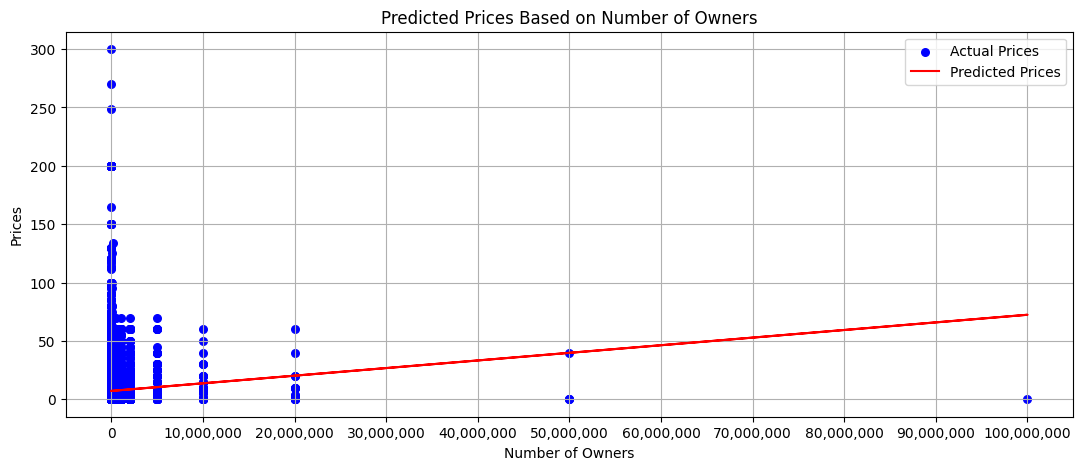
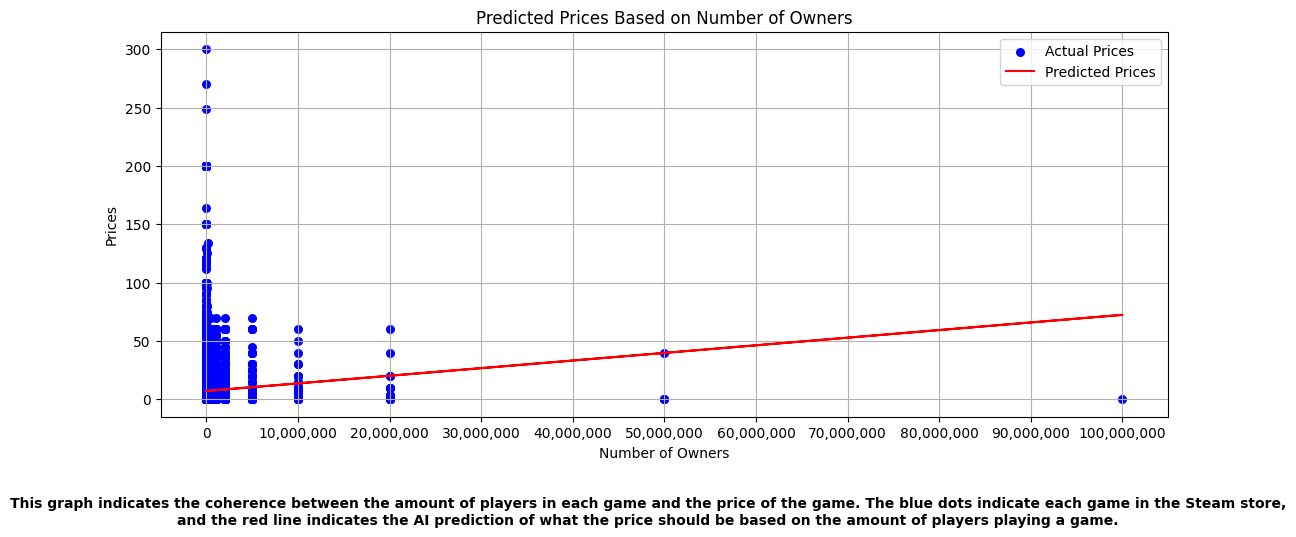
Bug fixes

diff --git a/screens/game_screen.py b/screens/game_screen.py
@@ -85,62 +85,52 @@ def generate_graph():
     plt.gca().xaxis.set_major_locator(MaxNLocator(integer=True, nbins=12))
     plt.legend()
     plt.grid()
+
+    # Add bold text at the bottom of the graph
+    plt.figtext(0.5, -0.1,
+                "This graph indicates the coherence between the amount of players in each game and the price of the game. "
+                "The blue dots indicate each game in the Steam store, and the red line indicates the AI prediction of what the price should be based on the amount of players playing a game.",
+                wrap=True, horizontalalignment='center', fontsize=10, fontweight='bold')
+
     plt.savefig('predicted_prices_plot.png', format='png', bbox_inches='tight')
     plt.close()
 
 class GameScreen:
     def __init__(self, parent):
-        ctk.CTkLabel(parent, text="Game Screen", font=("Arial", 24), text_color="white").pack(pady=20)
+        ctk .CTkLabel(parent, text="Game Screen", font=("Arial", 24), text_color="white").pack(pady=20)
 
         self.search_bar = ctk.CTkEntry(parent, placeholder_text="Search for a game...")
         self.search_bar.pack(pady=(0, 20), padx=10, fill="x")
 
         self.add_expanding_segment(parent, "Recommended by friends", "This section shows games recommended by your friends.")
-        self.add_expanding_segment(parent, "Top 10 worldwide", "Explore the top 10 trending games worldwide.")
+        self.add_expanding_segment(parent, "Top 5 worldwide", "Explore the top 5 trending games worldwide.")
 
         # Generate and display the graph
         generate_graph()
         self.display_graph(parent)
 
     def add_expanding_segment(self, parent, title, description):
-        segment_frame = ctk.CTkFrame(parent, fg_color="#2A475E", corner_radius=15)
+        segment_frame = ctk.CTkFrame(parent)
         segment_frame.pack(pady=10, padx=10, fill="x")
 
-        ctk.CTkLabel(
-            segment_frame,
-            text=title,
-            font=("Arial", 16, "bold"),
-            text_color="white",
-            anchor="w"
-        ).pack(side="top", padx=10, pady=(10, 5), fill="x")
+        title_label = ctk.CTkLabel(segment_frame, text=title, font=("Arial", 18), text_color="white")
+        title_label.pack(anchor="w", padx=10)
 
-        ctk.CTkLabel(
-            segment_frame,
-            text=description,
-            font=("Arial", 12),
-            text_color="lightgray",
-            anchor="w",
-            wraplength=600
-        ).pack(side="top", padx=10, pady=(0, 10), fill="x")
+        description_label = ctk.CTkLabel(segment_frame, text=description, font=("Arial", 12), text_color="white")
+        description_label.pack(anchor="w", padx=10)
 
     def display_graph(self, parent):
-        # Load the saved image
-        image = Image.open('predicted_prices_plot.png')
-        photo = ImageTk.PhotoImage(image)
+        # Load the saved graph image
+        graph_image = Image.open('predicted_prices_plot.png')
+        graph_photo = ImageTk.PhotoImage(graph_image)
 
-        # Create a label to display the image
-        graph_label = ctk.CTkLabel(parent, image=photo)
-        graph_label.image = photo  # Keep a reference to avoid garbage collection
+        graph_label = ctk.CTkLabel(parent, image=graph_photo)
+        graph_label.image = graph_photo  # Keep a reference to avoid garbage collection
         graph_label.pack(pady=20)
 
-    def recommended_by_friends(self):
-        print("Recommended by friends clicked")
-
-    def top_10_worldwide(self):
-        print("Top 10 worldwide clicked")
-
-# Example usage
 if __name__ == "__main__":
     root = ctk.CTk()
+    root.title("Game Price Predictor")
+    root.geometry("800x600")
     GameScreen(root)
     root.mainloop()
